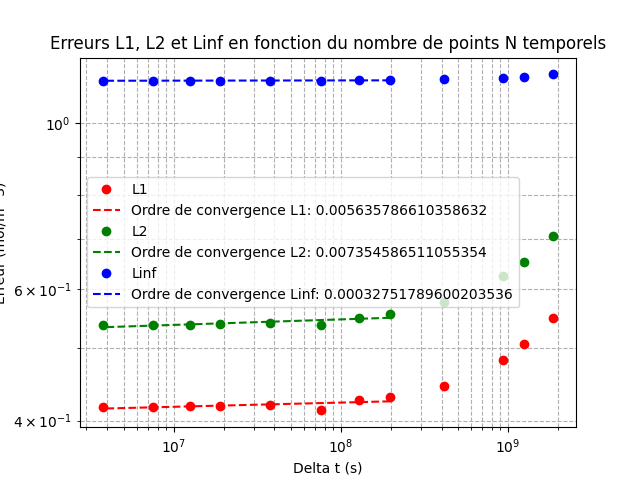
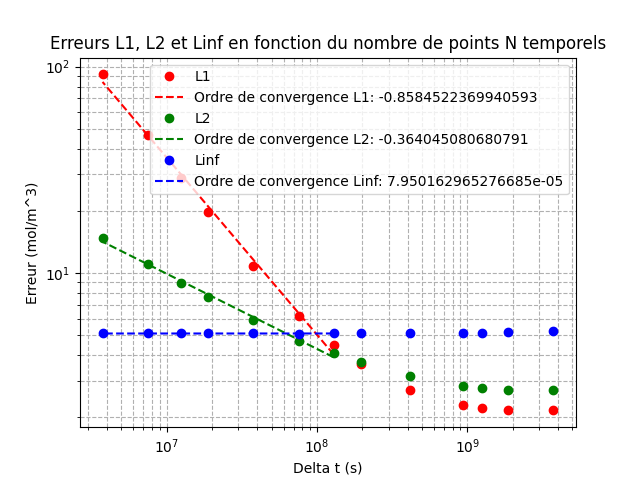
Ajout de la double sommations pour les erreurs

diff --git a/Devoir 2/src/main.py b/Devoir 2/src/main.py
@@ -18,8 +18,6 @@ import errors
 ############################
 # Importation des constantes
 ############################
-N_spatial = config.N_Spatial    # Nombre de points spatiaux pour la méthode des différences finies
-N_Temporel = config.N_Temporel  # Nombre de points temporels pour la méthode des différences finies
 D_EFF = config.D_EFF            # en m^2/s
 C_E = config.C_E                # en mol/m^3
 D = config.D                    # en m
@@ -82,7 +80,10 @@ plt.show()
 ##############################################################################
 list_N_spatiaux=[3, 4, 5, 10, 20, 30, 50, 100, 200, 300, 500, 1000]
 
-delta_t = (3.1536e7)      # 1 an en s
+delta_t = 365*24*3600      # 1 an en s
+N_temporel = (Tf/delta_t)+1
+N_temporel = int(N_temporel)
+
 vectDelta_r = np.zeros(len(list_N_spatiaux))
 vectL1 = np.zeros(len(list_N_spatiaux))
 vectL2 = np.zeros(len(list_N_spatiaux))
@@ -90,15 +91,15 @@ vectLinf = np.zeros(len(list_N_spatiaux))
 
 for i in (range(len(list_N_spatiaux))):
     delta_r = R/(list_N_spatiaux[i]-1)
-    N = list_N_spatiaux[i]
+    N_spatial = list_N_spatiaux[i]
     
     C_i, r_i, t_i=functions.Concentrations(delta_r, delta_t)
     y_values = C_chapeau(r_i, Tf)
     vectDelta_r[i]=delta_r
 
-    L1=errors.ErreurL1(C_i,y_values,N)
+    L1=errors.ErreurL1(C_i,y_values,N_spatial,N_temporel)
     vectL1[i]=L1
-    L2=errors.ErreurL2(C_i,y_values,N)
+    L2=errors.ErreurL2(C_i,y_values,N_spatial,N_temporel)
     vectL2[i]=L2
     Linf=errors.ErreurLinf(C_i,y_values)
     vectLinf[i]=Linf
@@ -137,9 +138,11 @@ plt.show()
 ##############################################################################
 # Analyse de convergence temporelle avec delta spatial fixé à 0,125 m (5 points)
 ##############################################################################
-list_N_temporel=[3, 4, 5, 10, 20, 30, 50, 100, 200, 300, 500, 1000]
+list_N_temporel=[2, 3, 4, 5, 10, 20, 30, 50, 100, 200, 300, 500, 1000]
 
-delta_r = 0.125      # en m
+delta_r = R/(20-1)      # en m
+N_spatial = 20
+
 vectDelta_t = np.zeros(len(list_N_temporel))
 vectL1 = np.zeros(len(list_N_temporel))
 vectL2 = np.zeros(len(list_N_temporel))
@@ -147,15 +150,15 @@ vectLinf = np.zeros(len(list_N_temporel))
 
 for i in (range(len(list_N_temporel))):
     delta_t = Tf/(list_N_temporel[i]-1)
-    N = list_N_temporel[i]
+    N_temporel = list_N_temporel[i]
     
     C_i, r_i, t_i=functions.Concentrations(delta_r, delta_t)
     y_values = C_chapeau(0.25, t_i)
     vectDelta_t[i]=delta_t
 
-    L1=errors.ErreurL1(C_i[2],y_values,N)
+    L1=errors.ErreurL1(C_i[2],y_values,N_spatial,N_temporel)
     vectL1[i]=L1
-    L2=errors.ErreurL2(C_i[2],y_values,N)
+    L2=errors.ErreurL2(C_i[2],y_values,N_spatial,N_temporel)
     vectL2[i]=L2
     Linf=errors.ErreurLinf(C_i[2],y_values)
     vectLinf[i]=Linf
@@ -164,21 +167,21 @@ plt.figure()
 
 # L1
 plt.plot(vectDelta_t, vectL1, 'o', color='red', label='L1')
-slope_L1, intercept_L1, r_value_L1, p_value_L1, std_err_L1 = linregress(np.log(vectDelta_t[4:]), np.log(vectL1[4:]))
-y_pred_L1 =  np.exp(intercept_L1) * vectDelta_t[4:]**slope_L1
-plt.plot(vectDelta_t[4:], y_pred_L1, '--', color='red', label=f'Ordre de convergence L1: {slope_L1}')
+slope_L1, intercept_L1, r_value_L1, p_value_L1, std_err_L1 = linregress(np.log(vectDelta_t[6:]), np.log(vectL1[6:]))
+y_pred_L1 =  np.exp(intercept_L1) * vectDelta_t[6:]**slope_L1
+plt.plot(vectDelta_t[6:], y_pred_L1, '--', color='red', label=f'Ordre de convergence L1: {slope_L1}')
 
 # L2
 plt.plot(vectDelta_t, vectL2, 'o', color='green', label='L2')
-slope_L2, intercept_L2, r_value_L2, p_value_L2, std_err_L2 = linregress(np.log(vectDelta_t[4:]), np.log(vectL2[4:]))
-y_pred_L2 = np.exp(intercept_L2) * vectDelta_t[4:]**slope_L2
-plt.plot(vectDelta_t[4:], y_pred_L2, '--', color='green', label=f'Ordre de convergence L2: {slope_L2}')
+slope_L2, intercept_L2, r_value_L2, p_value_L2, std_err_L2 = linregress(np.log(vectDelta_t[6:]), np.log(vectL2[6:]))
+y_pred_L2 = np.exp(intercept_L2) * vectDelta_t[6:]**slope_L2
+plt.plot(vectDelta_t[6:], y_pred_L2, '--', color='green', label=f'Ordre de convergence L2: {slope_L2}')
 
 # Linf
 plt.plot(vectDelta_t, vectLinf, 'o', color='blue', label='Linf')
-slope_L3, intercept_L3, r_value_L3, p_value_L3, std_err_L3 = linregress(np.log(vectDelta_t[4:]), np.log(vectLinf[4:]))
-y_pred_Linf = np.exp(intercept_L3) * vectDelta_t[4:]**slope_L3
-plt.plot(vectDelta_t[4:], y_pred_Linf, '--', color='blue', label=f'Ordre de convergence Linf: {slope_L3}')
+slope_L3, intercept_L3, r_value_L3, p_value_L3, std_err_L3 = linregress(np.log(vectDelta_t[6:]), np.log(vectLinf[6:]))
+y_pred_Linf = np.exp(intercept_L3) * vectDelta_t[6:]**slope_L3
+plt.plot(vectDelta_t[6:], y_pred_Linf, '--', color='blue', label=f'Ordre de convergence Linf: {slope_L3}')
 
 plt.title('Erreurs L1, L2 et Linf en fonction du nombre de points N temporels')
 plt.legend()

diff --git a/Devoir 2/src/functions.py b/Devoir 2/src/functions.py
@@ -15,8 +15,6 @@ import config
 ###########################
 # Définition des constantes
 ###########################
-N_spatial = config.N_Spatial    # Nombre de points spatiaux pour la méthode des différences finies
-N_Temporel = config.N_Temporel  # Nombre de points temporels pour la méthode des différences finies
 D_EFF = config.D_EFF            # en m^2/s
 C_E = config.C_E                # en mol/m^3
 D = config.D                    # en m
@@ -44,10 +42,10 @@ def Concentrations(delta_r, delta_t):
     # Discrétisation
     N_spatial = (R / delta_r) + 1
     N_spatial = int(N_spatial)
-    N_Temporel = (Tf / delta_t) + 1
-    N_Temporel = int(N_Temporel)
+    N_temporel = (Tf / delta_t) + 1
+    N_temporel = int(N_temporel)
     r_i = np.linspace(0, R, N_spatial)
-    t_i = np.linspace(0, Tf, N_Temporel)
+    t_i = np.linspace(0, Tf, N_temporel)
 
     # Initialisation des matrices et vecteurs
     C_i = np.zeros(N_spatial)
@@ -78,16 +76,3 @@ def Concentrations(delta_r, delta_t):
         C_new = np.linalg.solve(matA, vectB)
         C_i = C_new     # Mise à jour des concentrations pour l'itération suivante
     return C_i, r_i, t_i
-
-'''
-# Tracer C_i en fonction de r pour le dernier pas de temps, en affichant les points
-plt.figure(figsize=(10, 6))
-plt.scatter(r_i, C_i, label=f'Temps = {t_i[-1]:.1e} s', color='b', marker='o')
-
-plt.title("Concentration en fonction de r au dernier temps")
-plt.xlabel('r (m)')
-plt.ylabel('Concentration (mol/m^3)')
-plt.legend()
-plt.grid(True)
-plt.show()
-'''

diff --git a/Devoir 2/src/errors.py b/Devoir 2/src/errors.py
@@ -12,18 +12,18 @@ import numpy as np
 ###################
 #Erreur L1 discrète
 ###################
-def ErreurL1(Ci,Ci_exact,N):
+def ErreurL1(Ci,Ci_exact,N_spatial,N_temporel):
     """Fonction de calcul de l'erreur L1 discrète"""
-    normeL1 = 1/N*np.sum(np.abs(Ci-Ci_exact))
+    normeL1 = 1/N_spatial*np.sum(np.abs(Ci-Ci_exact))+1/N_temporel*np.sum(np.abs(Ci-Ci_exact))
     return normeL1
 
 
 ###################
 #Erreur L2 discrète
 ###################
-def ErreurL2(Ci,Ci_exact,N):
+def ErreurL2(Ci,Ci_exact,N_spatial,N_temporel):
     """Fonction de calcul de l'erreur L2 discrète"""
-    normeL2 = np.sqrt(1/N*np.sum(np.abs(Ci-Ci_exact)**2))
+    normeL2 = np.sqrt(1/N_spatial*np.sum(np.abs(Ci-Ci_exact)**2))+np.sqrt(1/N_temporel*np.sum(np.abs(Ci-Ci_exact)**2))
     return normeL2
 
 
@@ -32,5 +32,5 @@ def ErreurL2(Ci,Ci_exact,N):
 #####################
 def ErreurLinf(Ci,Ci_exact):
     """Fonction de calcul de l'erreur Linf discrète"""
-    normeLinf = np.max(np.abs(Ci-Ci_exact))
+    normeLinf = np.max(np.abs(Ci-Ci_exact))+np.max(np.abs(Ci-Ci_exact))
     return normeLinf

diff --git a/Devoir 2/src/config.py b/Devoir 2/src/config.py
@@ -6,8 +6,6 @@ Fichier de configuration des constantes
 ###########################
 # Définition des constantes
 ###########################
-N_Spatial = 11      # Nombre de points spatiaux pour la méthode des différences finies
-N_Temporel = 2      # Nombre de points temporels pour la méthode des différences finies
 D_EFF = 1e-10       # en m^2/s
 C_E = 20            # en mol/m^3
 D = 1               # en m
